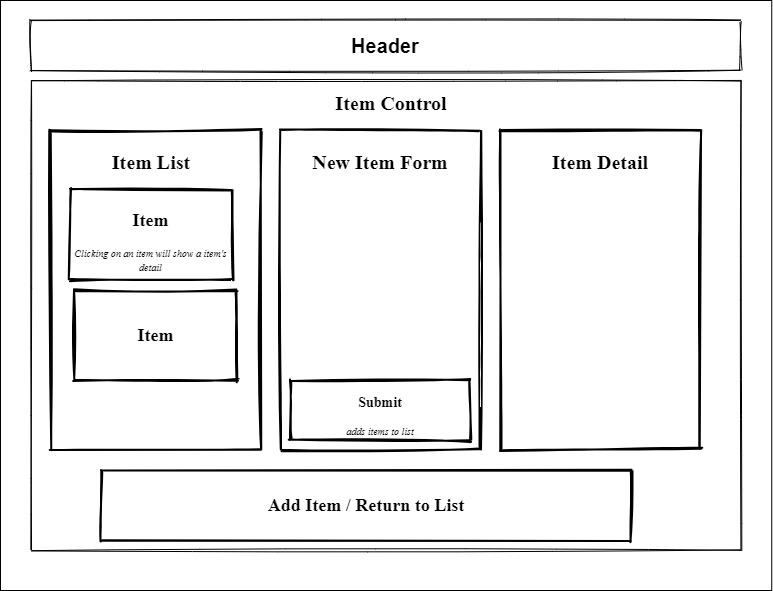
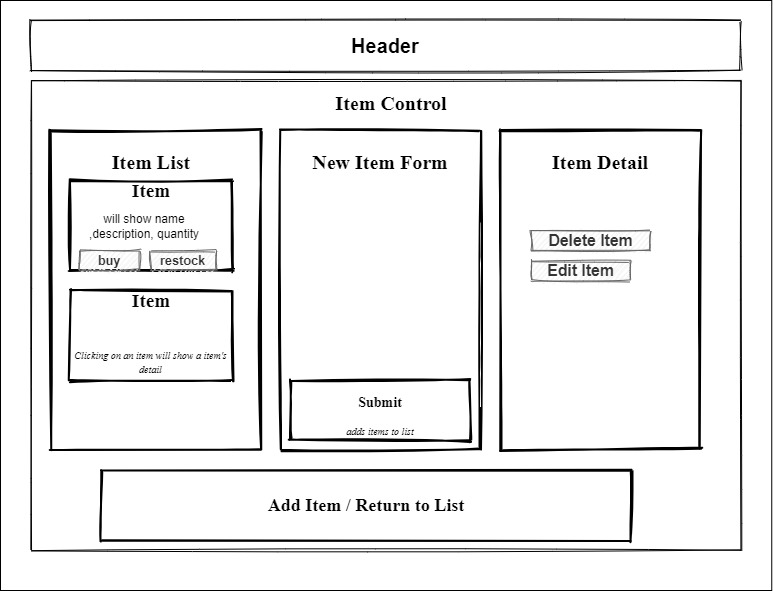
add conditionall renderin to TicketControl

Changed region(s): [[0.0621, 0.3046, 0.3105, 0.6701], [0.6831, 0.3655, 0.8383, 0.4873]]

diff --git a/src/components/ItemContol.js b/src/components/ItemContol.js
@@ -5,16 +5,29 @@ import NewItemForm from './NewItemForm';
 class ItemControl extends React.Component {
   constructor(props){
     super(props);
-    this.state = {}
+    this.state = {
+      formVisibleOnPage: false,
+      allItemList: [
+        { name: "Star Sapphire Ring",
+          quantity: 2,
+          description: "sugarloaf cabochon, pale mauve star Sapphire, 17.90 carats."},
+      ]
+    };
   }
 
 
   render(){
+    let currentlyVisibleState = null;
+    if(this.state.formVisibleOnPage){
+      currentlyVisibleState = <NewItemForm />
+    } else {
+      currentlyVisibleState = <ItemList itemList={this.state.allItemlist}/>
+    }
     return (
       <React.Fragment>
+        <hr/>
         <h1>Item control</h1>
-        <ItemList />
-        <NewItemForm />
+        {currentlyVisibleState}
       </React.Fragment>
     )
   }

diff --git a/src/components/ItemList.js b/src/components/ItemList.js
@@ -1,13 +1,25 @@
 import React from 'react';
 import Item from './Item';
+import PropTypes from 'prop-types';
 
-function ItemList(){
+function ItemList(props){
   return (
     <React.Fragment>
-      <h1>Item list</h1>
-      <Item />
+      <h4>Item List</h4>
+  
+      {/* {props.itemList.map( item => 
+        <Item 
+          name={item.name}
+          quantity={item.quantity}
+          description={item.description} />
+      )} */}
     </React.Fragment>
   )
 }
 
+ItemList.propTypes = {
+  itemList: PropTypes.array
+};
+
 export default ItemList ;
+

diff --git a/src/components/Item.js b/src/components/Item.js
@@ -1,9 +1,20 @@
 import React from 'react';
+import PropTypes from 'prop-types';
 
-function Item() {
+function Item(props) {
   return (
-    <h2>Item</h2>
+    <React.Fragment>
+      <h2><strong>Name:</strong> {props.name}</h2>
+      <h3><strong>Quantity:</strong> {props.quantity}</h3>
+      <h3><strong>Description:</strong> {props.description}</h3>
+    </React.Fragment>
   )
+}
+
+Item.propTypes = {
+  name: PropTypes.string,
+  quantity: PropTypes.number,
+  description: PropTypes.string
 }
 
 export default Item;
